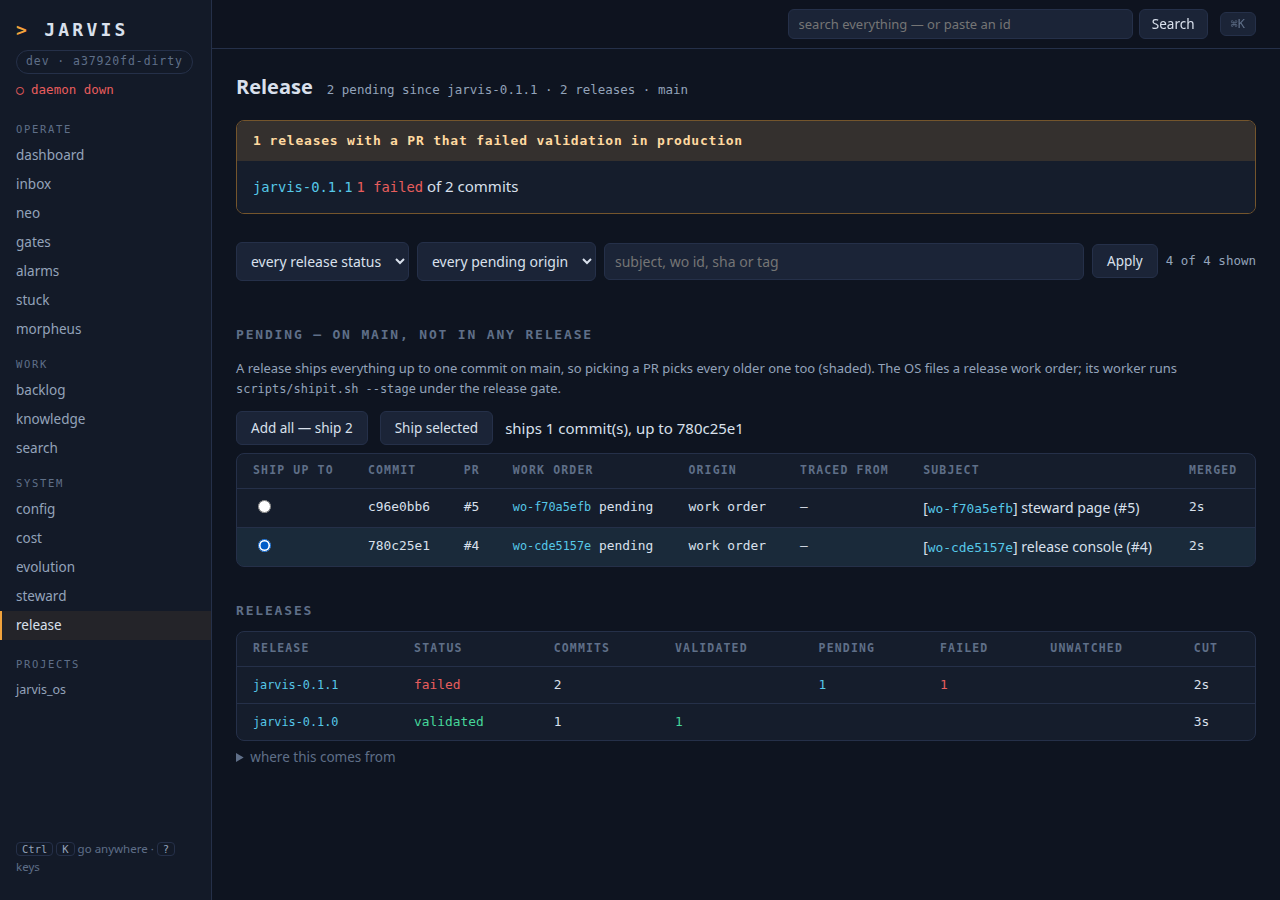
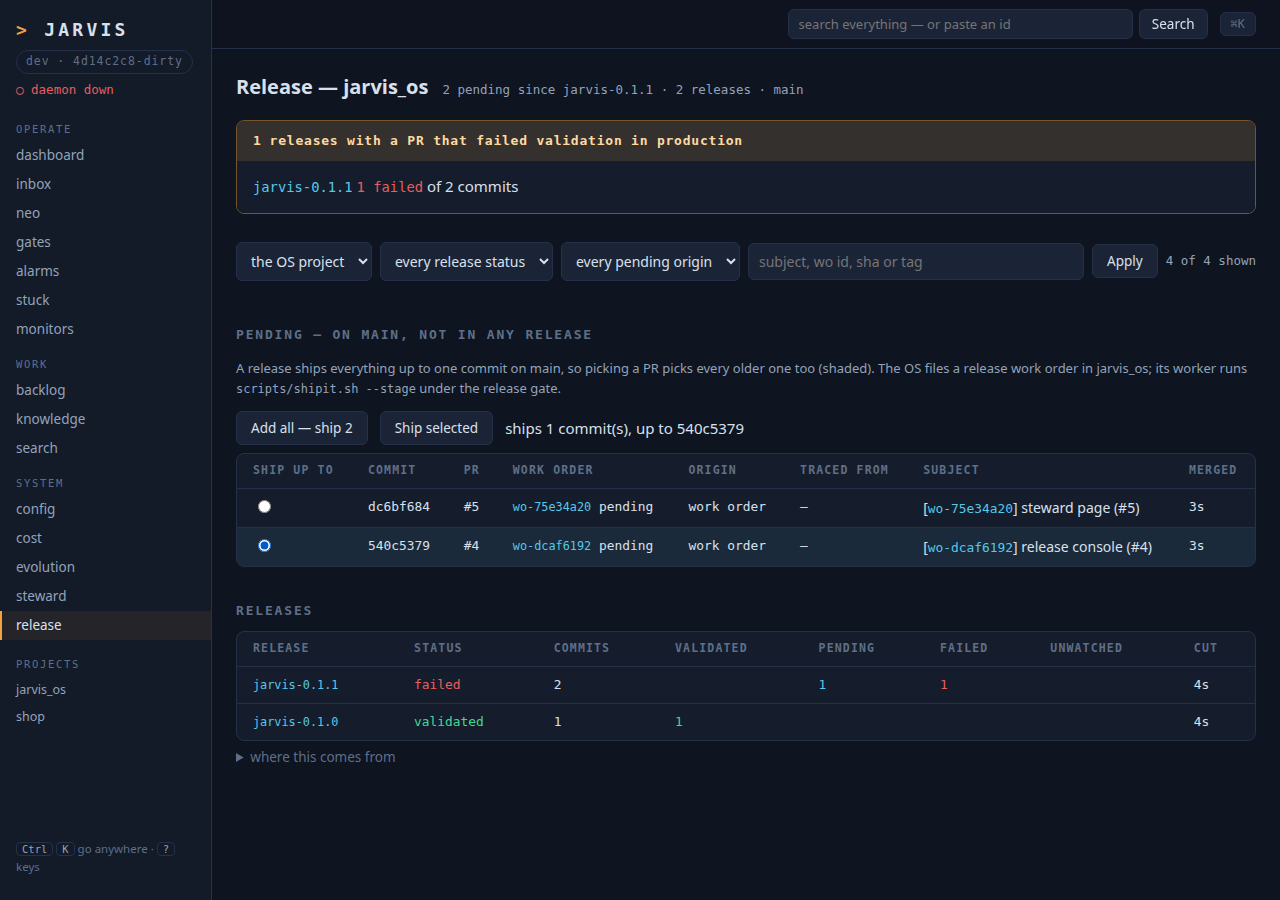
[wo-ea726f56] screenshot another project's /release
Claude-Session: https://claude.ai/code/session_01QUrrkg4DGXeK2Rn47iDo9g

diff --git a/src/jarvis/ui/templates/release.html b/src/jarvis/ui/templates/release.html
@@ -38,7 +38,7 @@ tr.rides td { background: color-mix(in srgb, var(--cyan) 8%, transparent); }
 <p class="kv">A release ships everything up to one commit on main, so picking a PR picks
   every older one too (shaded). The OS files a release work order in {{ report.project }};
   {% if report.is_os %}its worker runs <span class="mono">scripts/shipit.sh --stage</span>
-  {%- else %}its worker tags the commit and releases it the way the project documents{% endif %}
+  {%- else %}its worker tags the commit and releases it the way the project documents,{% endif %}
   under the release gate.</p>
 <div class="cut-bar">
   <form method="post" action="/release/cut">

diff --git a/scripts/screenshot_release_console.py b/scripts/screenshot_release_console.py
@@ -54,6 +54,17 @@ def seed() -> Path:
         if tag:
             _git(repo, "tag", tag)
     store.close()
+    app = repo.parent / "shop"  # another project, spec §3
+    app.mkdir()
+    _git(app, "init", "-q", "-b", "main")
+    _git(app, "config", "user.email", "t@t")
+    _git(app, "config", "user.name", "t")
+    for n, subject in enumerate(["checkout flow (#11)", "cart totals (#12)", "fix tax (#13)"]):
+        _git(app, "commit", "-q", "--allow-empty", "-m", subject)
+        if n == 0:
+            _git(app, "tag", "shop-0.1.0")
+    central.upsert_project("shop", str(app), "a shop")
+    central.conn.commit()
     central.close()
     return repo
 
@@ -64,7 +75,8 @@ def serve(repo: Path) -> None:
     from jarvis import ops
     from jarvis.ui.app import create_app
 
-    ops._release_repo = lambda: ("jarvis_os", repo)
+    real = ops._release_repo
+    ops._release_repo = lambda project="": real(project) if project else ("jarvis_os", repo)
     uvicorn.run(create_app(), host="127.0.0.1", port=PORT, log_level="warning")
 
 
@@ -80,6 +92,8 @@ def shoot() -> None:
         page.screenshot(path=SHOTS / "release-console.png", full_page=True)
         page.goto(f"http://127.0.0.1:{PORT}/release/jarvis-0.1.1")
         page.screenshot(path=SHOTS / "release-detail.png", full_page=True)
+        page.goto(f"http://127.0.0.1:{PORT}/release?project=shop")
+        page.screenshot(path=SHOTS / "release-other-project.png", full_page=True)
         browser.close()
 
 
